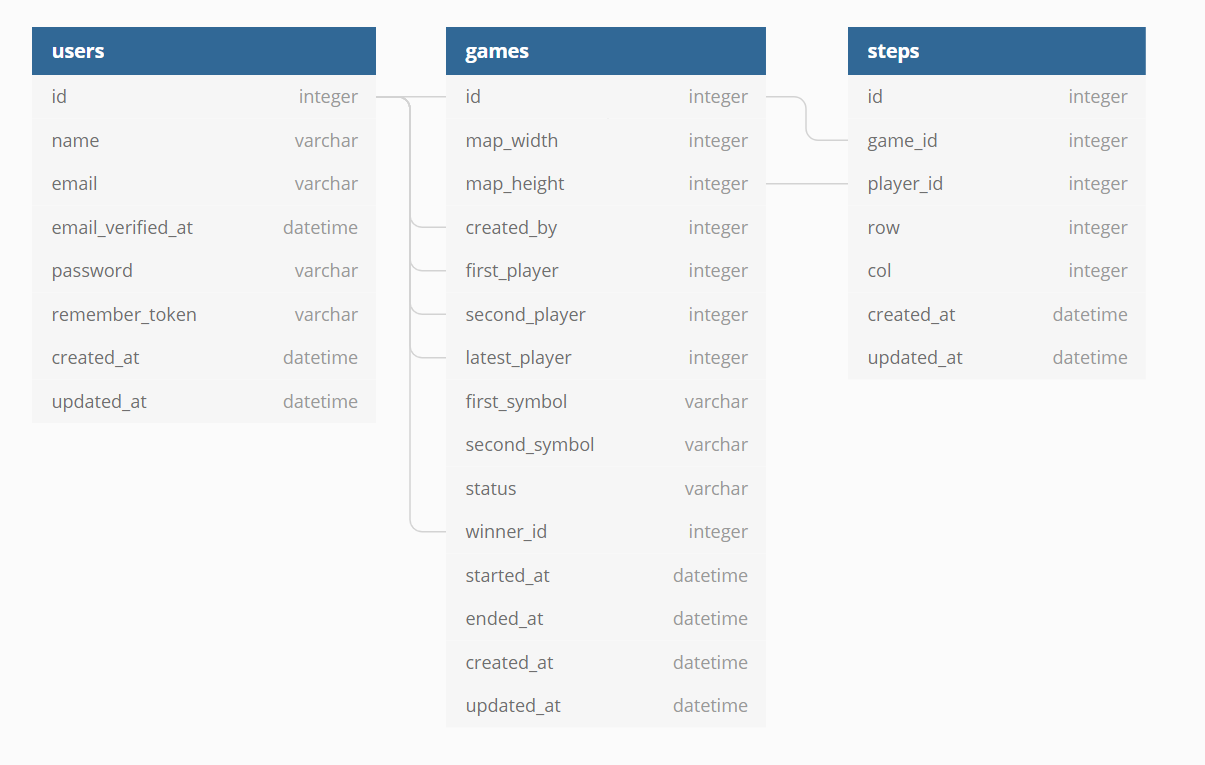
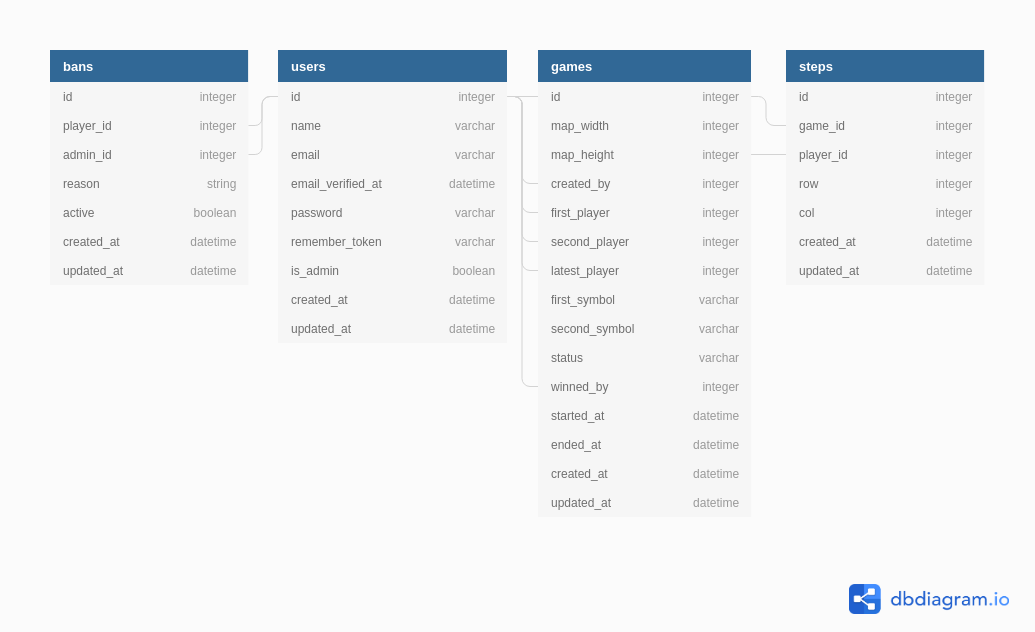
Update DB plan

diff --git a/DB.md b/DB.md
@@ -45,7 +45,7 @@ Step
 - created_at (datetime)
 - updated_at (datetime)
 
-Ban (TODO!)
+Ban
 - id (id)
 - user_id (User)
 - admin_id (User)
